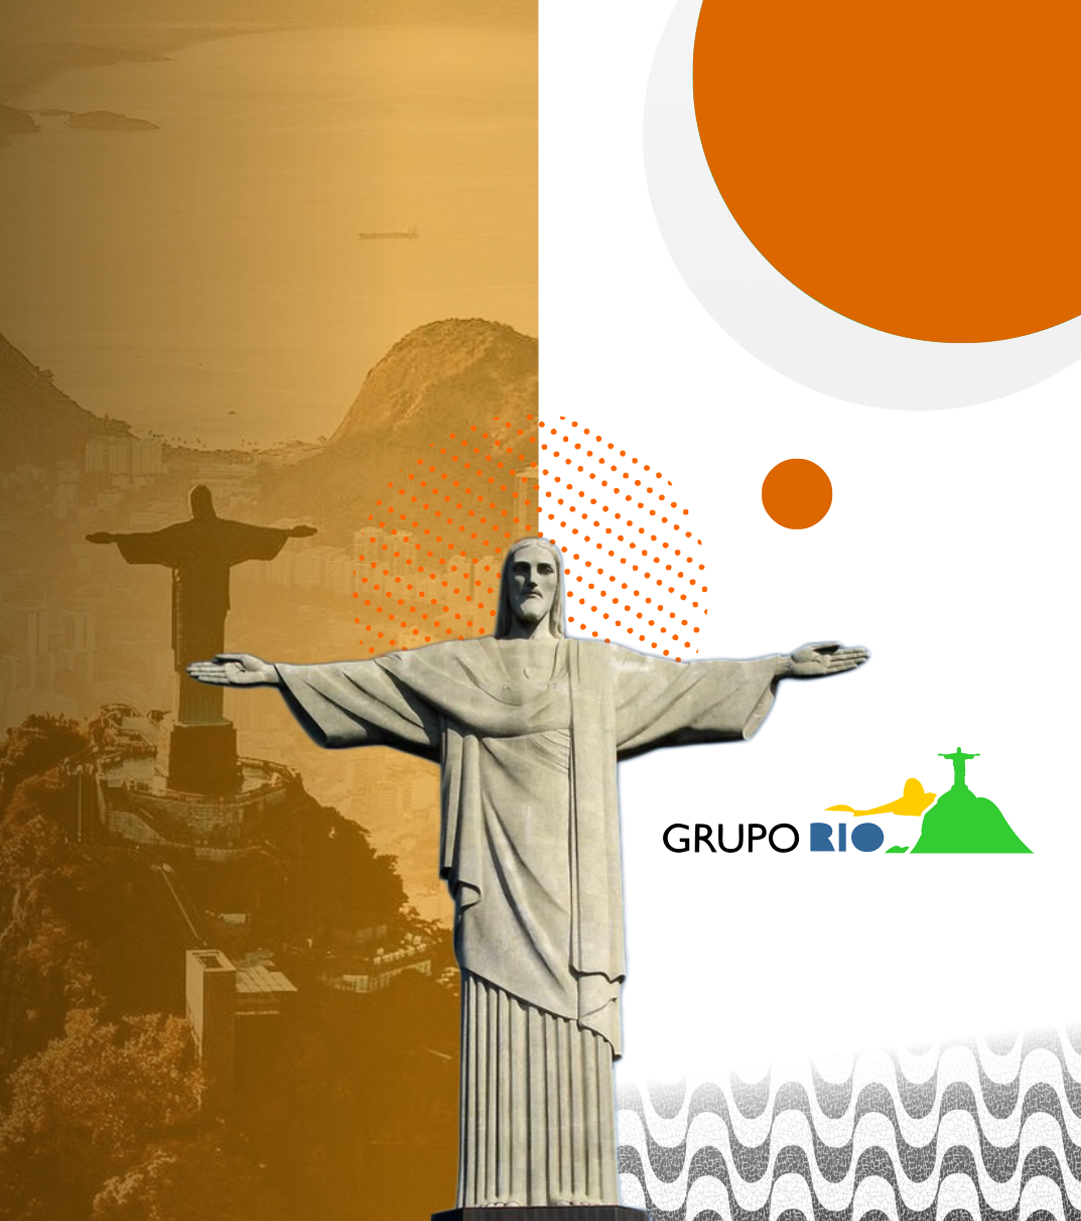
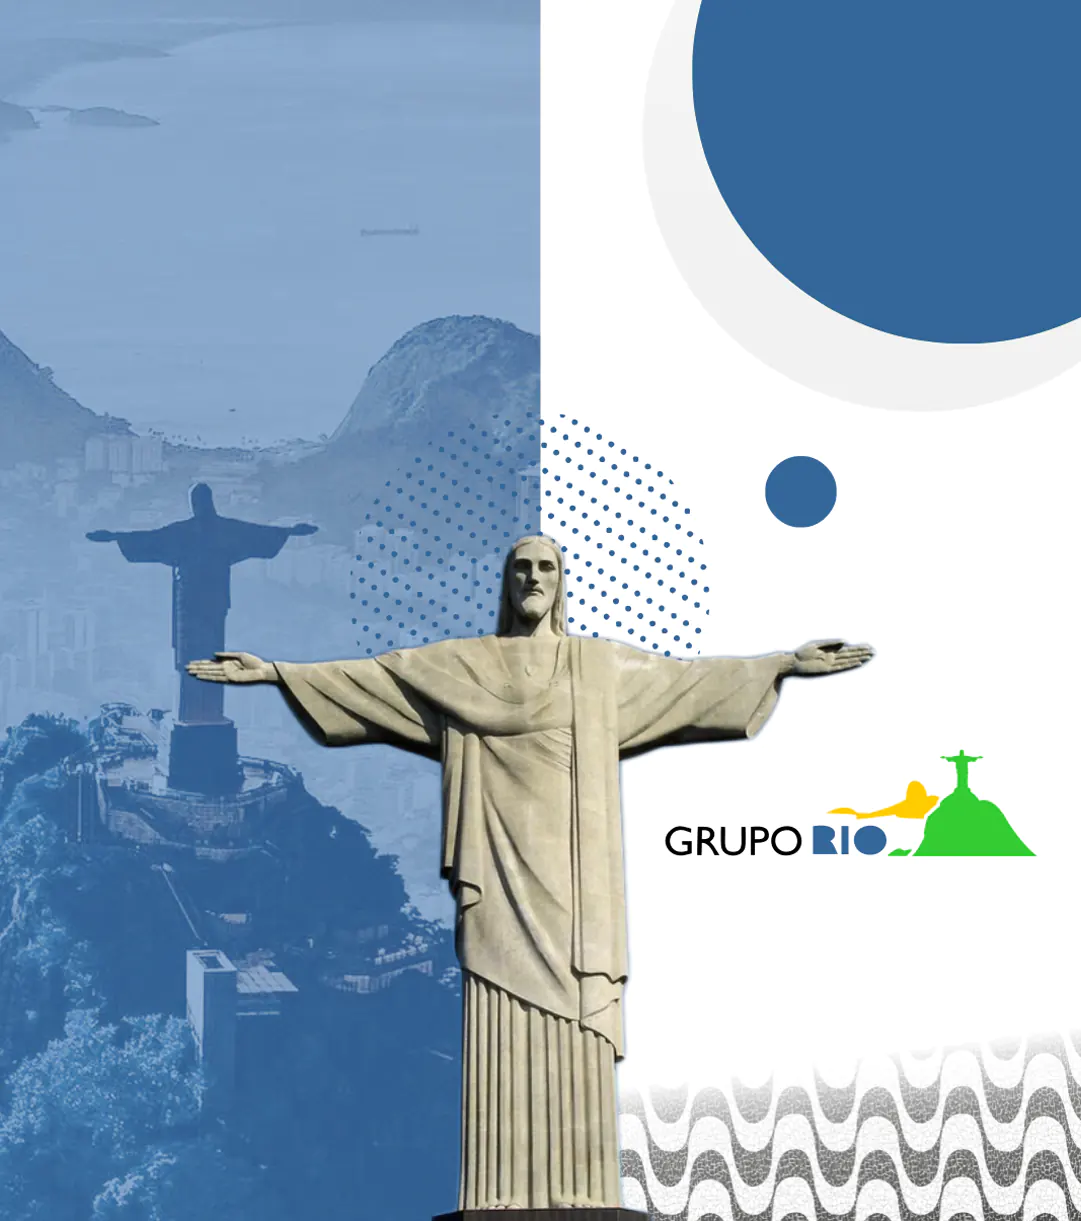
ALTERAÇÕES CLIENTE

diff --git a/src/components/ApoiadoresSlider/index.tsx b/src/components/ApoiadoresSlider/index.tsx
@@ -59,15 +59,15 @@ const Slider: NextPage<Props> = ({isMobile}) =>{
         <StyledSlider id="parcerias">
             <div>
                 <div id="items">
-                    <Image id="item" src="/first-session/itau.webp" alt="Itaú" width="200px" height="200px"/>
-                    <Image src="/first-session/bmg.webp" alt="BMG" width="200px" height="200px"/>
-                    <Image src="/first-session/pan.webp" alt="Pan" width="200px" height="200px"/>
-                    <Image src="/first-session/ole.webp" alt="Ole Consignado" width="200px" height="200px"/>
-                    <Image src="/first-session/agibank-logo.svg" alt="Agibank" width="200px" height="200px"/>
-                    <Image src="/first-session/daycoval.svg" alt="Banco Daycoval" width="200px" height="200px"/>
-                    <Image src="/first-session/banrisul.webp" alt="Banrisul" width="200px" height="200px"/>
-                    <Image src="/first-session/bradesco.webp" alt="Bradesco" width="200px" height="200px"/>
-                    <Image src="/first-session/cetelem.webp" alt="Cetelem" width="200px" height="200px"/>
+                    <Image id="item" src="/first-session/itau.webp" alt="Itaú" width="150px" height="150px"/>
+                    <Image src="/first-session/bmg.webp" alt="BMG" width="150px" height="150px"/>
+                    <Image src="/first-session/pan.webp" alt="Pan" width="150px" height="150px"/>
+                    <Image src="/first-session/ole.webp" alt="Ole Consignado" width="150px" height="150px"/>
+                    <Image src="/first-session/agibank-logo.svg" alt="Agibank" width="150px" height="150px"/>
+                    <Image src="/first-session/daycoval.svg" alt="Banco Daycoval" width="150px" height="150px"/>
+                    <Image src="/first-session/banrisul.webp" alt="Banrisul" width="150px" height="150px"/>
+                    <Image src="/first-session/bradesco.webp" alt="Bradesco" width="150px" height="150px"/>
+                    <Image src="/first-session/cetelem.webp" alt="Cetelem" width="150px" height="150px"/>
                 </div>
             </div>
             <div id="contador">

diff --git a/src/styles/filiais.ts b/src/styles/filiais.ts
@@ -3,7 +3,7 @@ import styled from 'styled-components'
 export const FiliaisStyled = styled.main`
 
     section:nth-child(2) {
-        background-image: url('/filiais/background.png');
+        background-image: url('/filiais/background.webp');
         height: 50vh;
         width: 100%;
         background-size: cover;
@@ -24,7 +24,7 @@ export const FiliaisStyled = styled.main`
 
         h3 {
             font-size: 1.2rem;
-            color: #EF985A;
+            color: rgb(65,88,208);
             margin: 1rem 0;
         }
 
@@ -50,7 +50,7 @@ export const FiliaisStyled = styled.main`
 
         div > h2 {
             font-size: 2rem;
-            color: #EF985A;
+            color: rgb(65,88,208);
             font-weight: 700;
             margin-top: 1rem;
         }
@@ -127,7 +127,7 @@ export const StyledFilial = styled.main<FilialProps>`
         text-align: center;
 
         h2 {
-            color: #EF985A;
+            color: rgb(65,88,208);
             font-size: 2rem;
             margin: 1rem 0;
         }

diff --git a/src/styles/privacidade.ts b/src/styles/privacidade.ts
@@ -9,7 +9,7 @@ export const PrivacidadeStyled = styled.main`
     margin: 0;
 
     section:nth-child(2){
-        background-image: url("/privacidade/background.png");
+        background-image: url("/privacidade/background.webp");
         height: 50vh;
         width: 100%;
         background-size: cover;
@@ -34,13 +34,13 @@ export const PrivacidadeStyled = styled.main`
 
         h2 {
             font-size: 2rem;
-            color: #EF985A;
+            color: rgb(65,88,208);
             font-weight: 700;
             margin: 2rem 0;
         }
 
         h3 {
-            color: #EF985A;
+            color: rgb(65,88,208);
             font-weight: 700;
             font-size: 1.2rem;
             margin: 1rem 0;
@@ -82,7 +82,7 @@ export const PrivacidadeStyled = styled.main`
             }
 
             div:hover svg{
-                color: #EF985A;
+                color: rgb(65,88,208);
             }
 
             p {

diff --git a/src/styles/index.ts b/src/styles/index.ts
@@ -69,7 +69,7 @@ export const StyledIndex = styled.div<StyledIndexProps>`
         svg {
             margin-bottom: 1rem;
             font-size: 5rem;
-            color: rgba(255,105,0,1);
+            color: rgb(65,88,208);
         }
 
         h3 {
@@ -256,7 +256,7 @@ export const StyledIndex = styled.div<StyledIndexProps>`
             padding: 0.5rem 2rem;
             border: 0;
             border-radius: 4px;
-            background-color: #ED7E36;
+            background-color: rgb(65,88,208);
             color: white;
             box-shadow: 0 3px 5px 2px rgb(0, 0, 0, 0.3);
             cursor: pointer;

diff --git a/src/pages/index.tsx b/src/pages/index.tsx
@@ -122,7 +122,7 @@ const Home: NextPage = () => {
               <h3>Maria Augusta</h3>
               <span>CEO | Grupo Rio</span>
 
-              <Image src="/maria-augusta.jpg" alt="Maria Augusta" width="200px" height="200px" layout="fixed"/>
+              <Image src="/maria-augusta.webp" alt="Maria Augusta" width="200px" height="200px" layout="fixed"/>
               <p>“Nunca foi sorte, sempre foi Deus.”</p>
             </div>
 

diff --git a/src/styles/campanhas.ts b/src/styles/campanhas.ts
@@ -4,7 +4,7 @@ export const StyledCampanhas = styled.main`
     section:nth-child(1) {
         height: 50vh;
         width: 100%;
-        background-image: url("/campanhas/index.jpg");
+        background-image: url("/campanhas/index.webp");
         background-position: center;
         background-size: cover;
         position: relative;

diff --git a/src/components/ApoiadoresSlider/style.ts b/src/components/ApoiadoresSlider/style.ts
@@ -3,7 +3,7 @@ import styled from 'styled-components';
 export const StyledSlider = styled.div`
     display: flex;
     flex-direction: column;
-    height: 6rem;
+    height: 4rem;
     align-self: center;
     margin: 1rem 0;
     padding: 0 10px;
